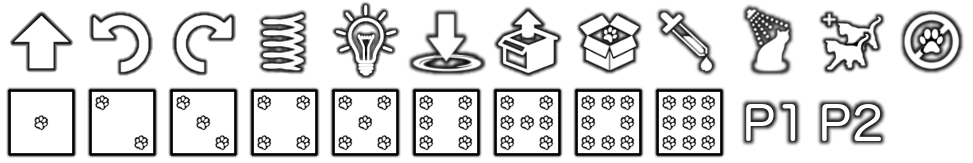
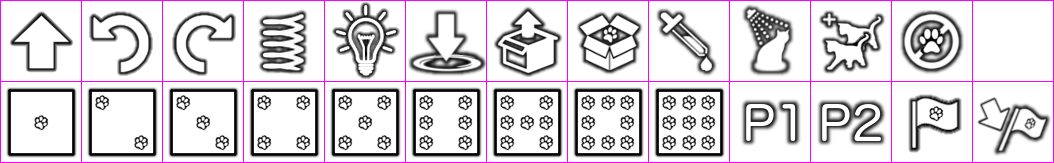
Nouvelles actions: SetCheckPoint et UseCheckPoint + boolean pour savoir si collision

diff --git a/src/Entities/Character.java b/src/Entities/Character.java
@@ -28,12 +28,13 @@ import UI.Gui;
 public class Character extends Entities
 {	
 	private int orientation; 
+	private Coordonnees checkPoint = null;
 	private Sprite bulle = null;
 	private Color couleur = Color.DEFAUT;
 	private Chest coffre  = null;
 	private Action actionCourante = null;
-	private int compteurActions;	//Permet de donner le nombre d'étoiles à la fin de la resolution d'un niveau
-	private List<Procedure> actionList; //Liste des procedures que le personnage effectue
+	private int compteurActions = 0;	//Permet de donner le nombre d'étoiles à la fin de la resolution d'un niveau
+	private List<Procedure> actionList = null; //Liste des procedures que le personnage effectue
 
 	Stack<ListIterator<Prog>> pile = new Stack<ListIterator<Prog>>(); //Pile permettant de savoir dans l'interpreteur ou en est le personnage dans ses actions
 	Stack<Integer> pileFor = new Stack<Integer>(); //Pile pour savoir a quel for le personnage est
@@ -47,7 +48,6 @@ public class Character extends Entities
 	{
 		super(pos);
 		orientation = ori;
-		compteurActions = 0;
 		sprite.setTexture(Ressources.TEXTURE.getTexture(TEXTURE.PERSO));
 		setTextureOrientation();
 	}
@@ -172,5 +172,15 @@ public class Character extends Entities
 	{	
 		try {actionCourante = (Action) a.clone();}
 		catch (CloneNotSupportedException e) {e.printStackTrace();}
+	}
+
+	public void setCheckPoint(Coordonnees coord) 
+	{
+		checkPoint = coord;	
+	}
+	
+	public Coordonnees getCheckPoint() 
+	{
+		return checkPoint;
 	}
 }

diff --git a/src/Entities/Entities.java b/src/Entities/Entities.java
@@ -15,14 +15,16 @@ public abstract class Entities
 {
 	protected Sprite sprite = new Sprite(); //Sprite du block ou personnage ou chest
 	protected Coordonnees coord;
+	protected boolean collision = true;
 	
 	public Entities(Coordonnees coord)
 	{
 		this.coord = coord;
 	}
 	
-	public Coordonnees getCoord() {return coord;}
+	public boolean getCollision() {return collision;}
 	
+	public Coordonnees getCoord() {return coord;}
 	public Vector2f getPosSprite() {return sprite.getPosition();}
 	public void setPosSprite(Vector2f pos) {sprite.setPosition(pos);}
 	public FloatRect getGlobalBounds() {return sprite.getGlobalBounds();}

diff --git a/src/Prog/NormalActions/Teleporter.java b/src/Prog/NormalActions/Teleporter.java
@@ -20,7 +20,7 @@ public class Teleporter extends Action
 	}
 	
 	private int frame = 0;
-	private int last_frame = 18;
+	private int last_frame = 20;
 	
 	/**
 	 * Si le personnage p se trouve sur un bloc teleporteur, il est teleporte sur la case indique par ce bloc.
@@ -33,14 +33,6 @@ public class Teleporter extends Action
 			if (b != null)
 				if (b instanceof TeleporterBlock)
 					((TeleporterBlock) b).perform(p);
-		}
-		else if (frame == 8)
-		{
-			
-		}
-		else if (frame == 16)
-		{
-			
 		}
 		//TODO other animation
 		frame ++;

diff --git a/src/UI/Gui.java b/src/UI/Gui.java
@@ -183,6 +183,10 @@ public class Gui
 			spr.setTextureRect(new IntRect(811, 1, 80, 80));
 		else if (act instanceof Break)
 			spr.setTextureRect(new IntRect(892, 1, 80, 80));
+		else if (act instanceof SetCheckPoint)
+			spr.setTextureRect(new IntRect(892, 82, 80, 80));
+		else if (act instanceof UseCheckPoint)
+			spr.setTextureRect(new IntRect(973, 82, 80, 80));
 
 		if(act.getColor() == Color.ROUGE)
 			spr.setColor(org.jsfml.graphics.Color.RED);

diff --git a/src/Prog/NormalActions/UseCheckPoint.java b/src/Prog/NormalActions/UseCheckPoint.java
@@ -1,0 +1,23 @@
+package Prog.NormalActions;
+
+import Entities.Character;
+import Game.World;
+import Prog.Action;
+import Prog.Color;
+import Prog.Coordonnees;
+
+public class UseCheckPoint extends Action 
+{
+	public UseCheckPoint(Color color)
+	{
+		super(color);
+	}
+	
+	public boolean execute(Character p)
+	{
+		p.setCoord(new Coordonnees(p.getCheckPoint()));
+		p.setPosSprite(World.WORLD.placeMe(p.getCoord()));
+		
+		return true;
+	}
+}

diff --git a/src/Prog/NormalActions/SetCheckPoint.java b/src/Prog/NormalActions/SetCheckPoint.java
@@ -1,0 +1,20 @@
+package Prog.NormalActions;
+
+import Entities.Character;
+import Prog.Action;
+import Prog.Color;
+import Prog.Coordonnees;
+
+public class SetCheckPoint extends Action 
+{
+	public SetCheckPoint(Color color)
+	{
+		super(color);
+	}
+	
+	public boolean execute(Character p)
+	{
+		p.setCheckPoint(new Coordonnees(p.getCoord()));
+		return true;
+	}
+}

diff --git a/src/Game/World.java b/src/Game/World.java
@@ -247,7 +247,7 @@ public class World
 	public boolean isValidPosition(Coordonnees c)
 	{
 		for (Entities e : allList)
-			if (e.getCoord().int_equals(c))
+			if (e.getCollision() && e.getCoord().int_equals(c))
 				return false;
 		
 		return true;
